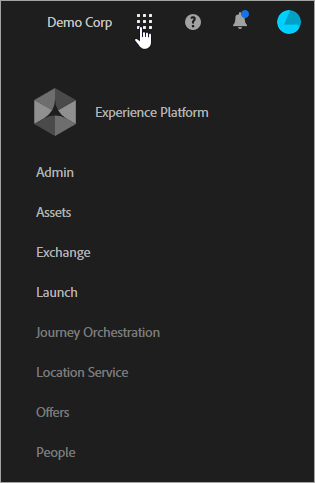
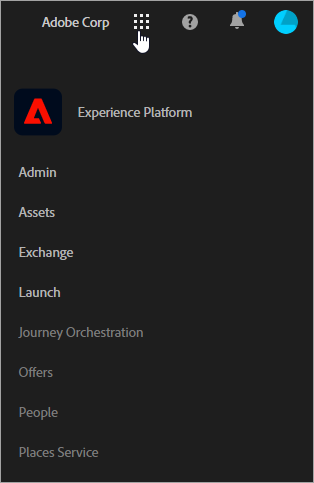
screen shot updates

diff --git a/help/interface/solutions-core-services.md b/help/interface/solutions-core-services.md
@@ -17,7 +17,7 @@ Learn about latest branding updates for the clouds, how to navigate the interfac
 
 The latest cloud names and the solutions in each cloud:
 
-![](assets/experience_cloud_appicon_32.png) [Experience Cloud](https://www.adobe.com/experience-cloud.html?promoid=FZPQZ2HS&mv=other)
+[Experience Cloud](https://www.adobe.com/experience-cloud.html?promoid=FZPQZ2HS&mv=other)
 
 Replaces *Marketing Cloud* as the parent cloud name for all Adobe's digital experience solutions and services.
 
@@ -25,7 +25,7 @@ Replaces *Marketing Cloud* as the parent cloud name for all Adobe's digital expe
 >
 >You might continue to see references to *Marketing Cloud* in its previous, broader context until all the solution interfaces are re-branded to *Enterprise Cloud.* 
 
-![](assets/marketingcloud_32.png) [Marketing Cloud](https://www.adobe.com/marketing-cloud.html) 
+[Marketing Cloud](https://www.adobe.com/marketing-cloud.html) 
 
 Includes the following solutions:
 
@@ -35,14 +35,14 @@ Includes the following solutions:
 * Adobe Primetime
 * Adobe Social
 
-![](assets/analyticscloud_appicon_32.png) [Analytics Cloud](https://www.adobe.com/data-analytics-cloud.html)
+[Analytics Cloud](https://www.adobe.com/data-analytics-cloud.html)
 
 Includes the following solutions:
 
 * Adobe Analytics
 * Adobe Audience Manager
 
-![](assets/advertisingcloud_appicon_32.png) [Advertising Cloud](https://www.adobe.com/advertising-cloud.html)
+[Advertising Cloud](https://www.adobe.com/advertising-cloud.html)
 
 Includes Media Optimizer and TubeMogul.
 
@@ -50,7 +50,7 @@ Includes Media Optimizer and TubeMogul.
 
 The following information briefly describes the solutions and provides links to help. [Use case recipes](https://helpx.adobe.com/marketing-cloud/how-to/use-cases.html) are also available to help you with digital marketing workflows.
 
-![](assets/mc_analytics_32.png) [Adobe Analytics](https://docs.adobe.com/content/help/en/analytics/landing/home.html)
+[Adobe Analytics](https://docs.adobe.com/content/help/en/analytics/landing/home.html)
 
 To get started in Analytics:
 
@@ -64,7 +64,7 @@ See also:
 * [Which Analytics products should I use?](https://docs.adobe.com/content/help/en/analytics/admin/admin-overview/which-analytics-tool.html)
 * [Analytics product comparison and requirements](https://docs.adobe.com/content/help/en/analytics/admin/admin-overview/analytics-product-comparison.html)
 
-![](assets/mc_target_32.png) [Adobe Target](https://docs.adobe.com/content/help/en/target/using/target-home.html)
+[Adobe Target](https://docs.adobe.com/content/help/en/target/using/target-home.html)
 
 Adobe Target integrates with Analytics and other Experience Cloud core services. Useful getting started topics:
 
@@ -73,29 +73,25 @@ Adobe Target integrates with Analytics and other Experience Cloud core services.
 * [Administrator first steps](https://docs.adobe.com/content/help/en/target/using/administer/start-target.html)
 * [Use Analytics as the reporting source for Adobe Target](https://docs.adobe.com/content/help/en/target/using/integrate/a4t/a4t.html)
 
-![](assets/mc_social_32.png) [Adobe Social](https://docs.adobe.com/content/help/en/social/using/home.html)
-
-Social provides a hosted, subscription-based solution to help you achieve your social media goals and improve your strategy and performance. You can manage social marketing with a comprehensive platform that enables social listening, publishing, and analytics.
-
-![](assets/mc_experiencemanager_32.png) [Adobe Experience Manager](https://helpx.adobe.com/support/experience-manager/6-5.html)
+[Adobe Experience Manager](https://helpx.adobe.com/support/experience-manager/6-5.html)
 
 As a content management solution, Adobe Experience Manager makes it easy to manage your assets and content for your websites, mobile apps, communities, and forms.
 
 See [Adobe Experience Manager 6.5](https://helpx.adobe.com/support/experience-manager/6-5.html) for help.
 
-![](assets/mc_audiencemanager_32.png) [Adobe Audience Manager](https://docs.adobe.com/content/help/en/audience-manager/user-guide/aam-home.html)
+[Adobe Audience Manager](https://docs.adobe.com/content/help/en/audience-manager/user-guide/aam-home.html)
 
 As a data management platform, Adobe Audience Manager helps you build unique audience profiles, so you can discover and target your most valuable customer segments on every channel.
 
-![](assets/mc_optimize_32.png) [Adobe Advertising Cloud](https://docs.adobe.com/content/help/en/release-notes/experience-cloud/current.html#adcloud)
+[Adobe Advertising Cloud](https://docs.adobe.com/content/help/en/release-notes/experience-cloud/current.html#adcloud)
 
 Adobe Advertising Cloud is a programmatic ad-buying solution. It helps you find and forecast the best mix of ad channels based on your budget, then automates the delivery of content right to your audience.
 
-![](assets/mc_campaign_32.png) [Adobe Campaign](https://docs.adobe.com/content/help/en/campaign-standard/using/getting-started/about-adobe-campaign/campaign-orchestration.html) 
+[Adobe Campaign](https://docs.adobe.com/content/help/en/campaign-standard/using/getting-started/about-adobe-campaign/campaign-orchestration.html) 
 
 Adobe Campaign lets you plan, deliver, and measure campaigns across all your online and offline channels. It helps increase your productivity and deliver relevant experiences to your customers.
 
-![](assets/primetime_app_32.png) [Adobe Primetime](https://help.adobe.com/en_US/primetime/)
+[Adobe Primetime](https://help.adobe.com/en_US/primetime/)
 
 Adobe Primetime is a multi-screen TV platform that helps broadcasters create engaging TV and film experiences that are personalized for any audience.
 

diff --git a/help/interface/experience-cloud.md b/help/interface/experience-cloud.md
@@ -10,7 +10,7 @@ uuid: aec6f689-e617-4876-ae6c-e961cfcb991a
 
 # Experience Cloud and Core Services Product Documentation
 
-![Experience Cloud](assets/banner.png)
+![Experience Cloud](assets/cloud-pulldown.png)
 
 This page provides self help, support, and technical and product documentation for the Adobe Experience Cloud solutions and services. The Experience Cloud is Adobe's integrated family of digital marketing solutions and services. It's also an intuitive interface that lets you quickly access your cloud solutions and core services.
 
